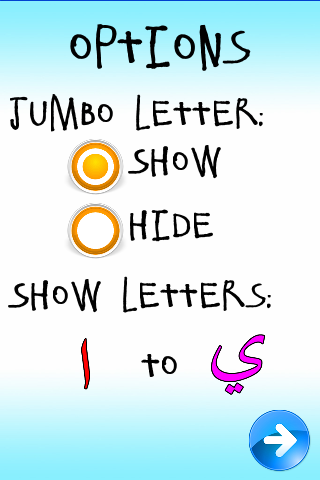
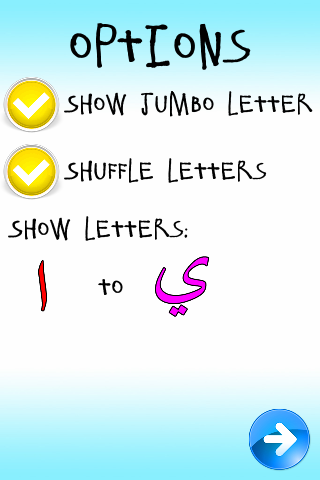
Final commit. - Updated version significantly - Downed volume on "mario coin" noise - Updated options screenshot - Implemented letter shuffling, and bugfix. - A bunch of Flurry event logging - Try/catch some weird bugs and null checks - Genericified ArrayTools.shuffleArray

diff --git a/game-core/src/com/deengames/findtheharf/screens/OptionsScreen.java b/game-core/src/com/deengames/findtheharf/screens/OptionsScreen.java
@@ -78,7 +78,7 @@ public class OptionsScreen extends Screen {
 		this.fadeOutImmediately();
 
 		_showJumboLetters = PersistentStorage.getBoolean(Constants.SHOW_JUMBO_LETTERS, true);
-		_shouldShuffleLetters = PersistentStorage.getBoolean(Constants.SHUFFLE_LETTERS, true);
+		_shouldShuffleLetters = PersistentStorage.getBoolean(Constants.SHUFFLE_LETTERS, false);
 		_firstLetter = PersistentStorage.getInt(Constants.FIRST_HARF_TO_SHOW, 0);
 		_lastLetter = PersistentStorage.getInt(Constants.LAST_HARF_TO_SHOW, 27);
 
@@ -116,6 +116,7 @@ public class OptionsScreen extends Screen {
 				_showJumboLetters = (_jumboLettersCheckbox.getIsChecked());
 			}
 		});
+		_jumboLettersCheckbox.setIsChecked(_showJumboLetters);
 		
 		_shuffleLetters = this.addText("Shuffle Letters");
 		_shuffleLetters.setFontSize(24);
@@ -129,6 +130,7 @@ public class OptionsScreen extends Screen {
 				_shouldShuffleLetters = (_shuffleLettersCheckbox.getIsChecked());
 			}
 		});
+		_shuffleLettersCheckbox.setIsChecked(_shouldShuffleLetters);
 
 		_showLettersBetween = this.addText("Show Letters:");
 		_showLettersBetween.setFontSize(24);
@@ -138,8 +140,7 @@ public class OptionsScreen extends Screen {
 		_to.setFontSize(24);
 		_to.setFont("elliotsix");
 
-		_firstLetterSprite = this.addSprite("content/images/letters/"
-				+ _letters[_firstLetter] + ".png");
+		_firstLetterSprite = this.addSprite("content/images/letters/" + _letters[_firstLetter] + ".png");
 		_firstLetterSprite.setScale(96f / _firstLetterSprite.getWidth());
 		_firstLetterSprite.setClickListener(new ClickListener() {
 			@Override
@@ -148,8 +149,7 @@ public class OptionsScreen extends Screen {
 			}
 		});
 
-		_lastLetterSprite = this.addSprite("content/images/letters/"
-				+ _letters[_lastLetter] + ".png");
+		_lastLetterSprite = this.addSprite("content/images/letters/" + _letters[_lastLetter] + ".png");
 		_lastLetterSprite.setScale(_firstLetterSprite.getScale());
 		_lastLetterSprite.setClickListener(new ClickListener() {
 			@Override
@@ -168,16 +168,13 @@ public class OptionsScreen extends Screen {
 		for (int i = 0; i < this._letters.length; i++) {
 			final String letter = this._letters[i];
 
-			final Sprite s = this.addSprite("content/images/letters/" + letter
-					+ ".png");
-			s.setPassThroughClick(true); // So the image button gets the click
-											// too!
+			final Sprite s = this.addSprite("content/images/letters/" + letter + ".png");
+			s.setPassThroughClick(true); // So the image button gets the click too!
 			s.setZ(HALF_BLACKOUT_Z + 2);
 			_letterSprites[i] = s;
 			s.setAlpha(0);
 
-			ImageButton overlay = this
-					.addImageButton("content/images/onPress.png");
+			ImageButton overlay = this.addImageButton("content/images/onPress.png");
 			overlay.setZ(s.getZ() - 1);
 
 			_letterOverlays.put(letter, overlay);
@@ -191,8 +188,7 @@ public class OptionsScreen extends Screen {
 
 						for (int i = 0; i < _letterSprites.length; i++) {
 							_letterSprites[i].setAlphaRate(-LETTER_FADE_RATE);
-							_letterOverlays.get(_letters[i]).setClickListener(
-									null);
+							_letterOverlays.get(_letters[i]).setClickListener(null);
 						}
 
 						// Find out index of letter we clicked on
@@ -208,33 +204,22 @@ public class OptionsScreen extends Screen {
 
 						// More sanity checking
 						if (clickedIndex == -1) {
-							throw new RuntimeException(
-									"Can't find index of the letter for "
-											+ s.getFileName());
+							throw new RuntimeException("Can't find index of the letter for " + s.getFileName());
 						}
 
 						if (_letterToPick == null) {
-							throw new RuntimeException(
-									"Picking a letter when _letterToPick is null");
+							throw new RuntimeException("Picking a letter when _letterToPick is null");
 						}
 
 						// Pick the letter
 						if (_letterToPick == LetterToPick.From) {
 							_firstLetter = clickedIndex;
-							_firstLetterSprite
-									.setImage("content/images/letters/"
-											+ _letters[clickedIndex] + ".png");
-							FlurryHelper.logEvent(
-									"Options: Picked First Letter", "letter",
-									_letters[clickedIndex]);
+							_firstLetterSprite.setImage("content/images/letters/" + _letters[clickedIndex] + ".png");
+							FlurryHelper.logEvent("Options: Picked First Letter", "letter", _letters[clickedIndex]);
 						} else {
 							_lastLetter = clickedIndex;
-							_lastLetterSprite
-									.setImage("content/images/letters/"
-											+ _letters[clickedIndex] + ".png");
-							FlurryHelper.logEvent(
-									"Options: Picked Last Letter", "letter",
-									_letters[clickedIndex]);
+							_lastLetterSprite.setImage("content/images/letters/" + _letters[clickedIndex] + ".png");
+							FlurryHelper.logEvent("Options: Picked Last Letter", "letter", _letters[clickedIndex]);
 						}
 					}
 				}
@@ -345,8 +330,7 @@ public class OptionsScreen extends Screen {
 
 		for (String letter : this._letters) {
 			// Enable click-trapping
-			this._letterOverlays.get(letter).setClickListener(
-					emptyClickListener);
+			this._letterOverlays.get(letter).setClickListener(emptyClickListener);
 		}
 	}
 

diff --git a/game-core/src/com/deengames/findtheharf/screens/CoreGameScreen.java b/game-core/src/com/deengames/findtheharf/screens/CoreGameScreen.java
@@ -72,8 +72,7 @@ public class CoreGameScreen extends Screen {
 	// Used for sprites to trap clicks, but do nothing.
 	ClickListener _emptyClickListener = new ClickListener() {
 		@Override
-		public void onClick(Clickable clickable) {
-		}
+		public void onClick(Clickable clickable) { }
 	};
 	
 	@Override
@@ -135,7 +134,7 @@ public class CoreGameScreen extends Screen {
 		for (int i = 0; i < this._letters.length; i++) {
 			final String letter = this._letters[i];
 			
-			Sprite s = this.addSprite("content/images/letters/" + letter + ".png");
+			final Sprite s = this.addSprite("content/images/letters/" + letter + ".png");
 			s.setZ(s.getZ() + 1); // over overlay
 			s.setPassThroughClick(true); // So the image button gets the click too!
 			_letterSprites[i] = s;
@@ -152,7 +151,11 @@ public class CoreGameScreen extends Screen {
 					
 						AudioController.abortAndClearQueue();
 						
-						if (_letterToFind != "" && _letterToFind == letter) {
+						// Reassign letter based on sprite. We shuffle.
+						String imageFile = s.getFileName();
+						String letter = imageFile.substring(imageFile.lastIndexOf('/') + 1, imageFile.lastIndexOf('.'));
+						
+						if (_letterToFind != "" && _letterToFind.equals(letter)) {
 							
 							FlurryHelper.logEvent("Correct Letter", "letter", _letterToFind);
 							String praise =  _praises[MathUtils.random(_praises.length - 1)];
@@ -164,6 +167,7 @@ public class CoreGameScreen extends Screen {
 									"content/audio/speech/now.ogg",
 									});
 							
+							reshuffleLetters();
 							findANewLetter();
 						} else {
 							_numWrong++;
@@ -216,6 +220,7 @@ public class CoreGameScreen extends Screen {
 							} else {
 								FlurryHelper.logEvent("Failed to Find Letter", "letter", _letterToFind);
 								AudioController.playInSerial(new String[] {"content/audio/speech/sorry-try-again.ogg"});
+								reshuffleLetters();
 								findANewLetter();
 							}
 						}
@@ -412,6 +417,16 @@ public class CoreGameScreen extends Screen {
 		
 		if (this._jumboLetter != null) {
 			scaleJumboLetter();
+		}
+	}
+	
+	void reshuffleLetters() {
+		ArrayTools.shuffleArray(_letters);
+		
+		for (int i = 0; i < this._letterSprites.length; i++) {
+			Sprite s = this._letterSprites[i];
+			String letter = this._letters[i];
+			s.setImage("content/images/letters/" + letter + ".png");
 		}
 	}
 	

diff --git a/game-core/src/com/deengames/radiantwrench/audio/Sound.java b/game-core/src/com/deengames/radiantwrench/audio/Sound.java
@@ -43,6 +43,11 @@ public class Sound {
 			loadSource();
 		}
 		
-		this._source.stop();
+		// Dunno how, but it can fail
+		try {
+			this._source.stop();
+		} catch (Exception e) {
+			FlurryHelper.logEvent("Stop Sound Crash", "Message", e.getMessage());
+		}
 	}
 }

diff --git a/game-core/src/com/deengames/radiantwrench/controller/AudioController.java b/game-core/src/com/deengames/radiantwrench/controller/AudioController.java
@@ -79,7 +79,7 @@ public class AudioController {
 
 	public static void abortAndClearQueue() {
 		if (_enabled) {
-			if (_currentSound != null) {
+			if (_currentSound != null) {				
 				_currentSound.stop();
 			}
 			_soundQueue.clear();
